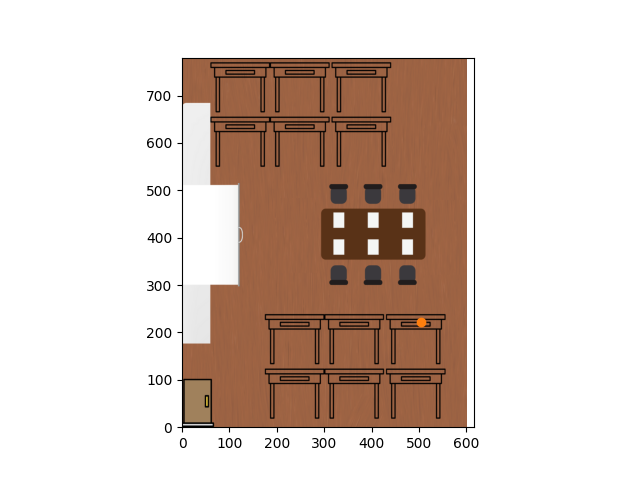
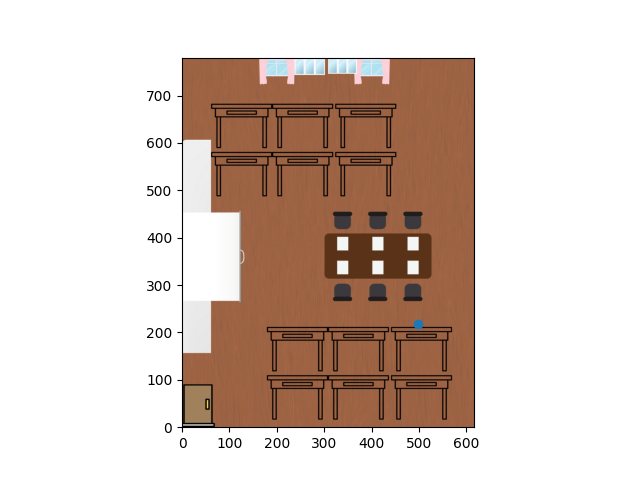
123

diff --git a/測試點名系統.py b/測試點名系統.py
@@ -27,8 +27,9 @@ def measure_and_display_result(n, root, image_label, result_label, coord_label):
         d1196, a = 距離1196.distance1196()
         x196, y196, x1196, y1196, x11962, y11962 = 座標1196.xy1196(d1196, a1196)
         print(f"1196座標: ({x196}, {y196})")
-      
-        if 280 < x196 < 700 and 1 < y196 < 700:   # 設定1196座位範圍
+
+   
+        if 280 < x196 < 700 and 450 < y196 < 500:   # 設定1196座位範圍
             flag1196 = 1
             
         # 檢測 tag 1225
@@ -37,12 +38,13 @@ def measure_and_display_result(n, root, image_label, result_label, coord_label):
         x125, y125, x1225, y1225, x12252, y12252 = 座標1225.xy1225(d1225, a1225)
         print(f"1225座標: ({x125}, {y125})")
         
+        
+        
+        coord_label.config(text=f"藍點1225座標: ({x125}, {y125})\n橘點1196座標: ({x196}, {y196})")
         # 繪製 tag 1225 的座標 繪製 tag 1196 的座標
         畫圖2.a1(x125, y125,x196, y196)
-        
-        coord_label.config(text=f"1225座標: ({x125}, {y125})\n1196座標: ({x196}, {y196})")
 
-        if 2 < x125 < 700 and 1 < y125 < 700:   # 設定 1225 座位範圍
+        if 2 < x125 < 400 and 1 < y125 < 300:   # 設定 1225 座位範圍
             flag1225 = 1
 
         if flag1196 == 1 and flag1225 == 1:

diff --git a/畫圖2.py b/畫圖2.py
@@ -4,7 +4,7 @@ def a1(x,y,x1,y1):
     img=plt.imread("m.png")
     fig,ax=plt.subplots()
     # 指定图片的高度和宽度
-    ax.imshow(img,extent=[0,600,0,880])
+    ax.imshow(img,extent=[0,616,0,780])
     plt.xlim(0,616)
     plt.ylim(0,780)
 

diff --git a/畫圖1.py b/畫圖1.py
@@ -4,7 +4,7 @@ def a1(x,y):
     img=plt.imread("m.png")
     fig,ax=plt.subplots()
     # 指定图片的高度和宽度
-    ax.imshow(img,extent=[0,600,0,880])
+    ax.imshow(img,extent=[0,616,0,780])
     plt.xlim(0,616)
     plt.ylim(0,780)
 
